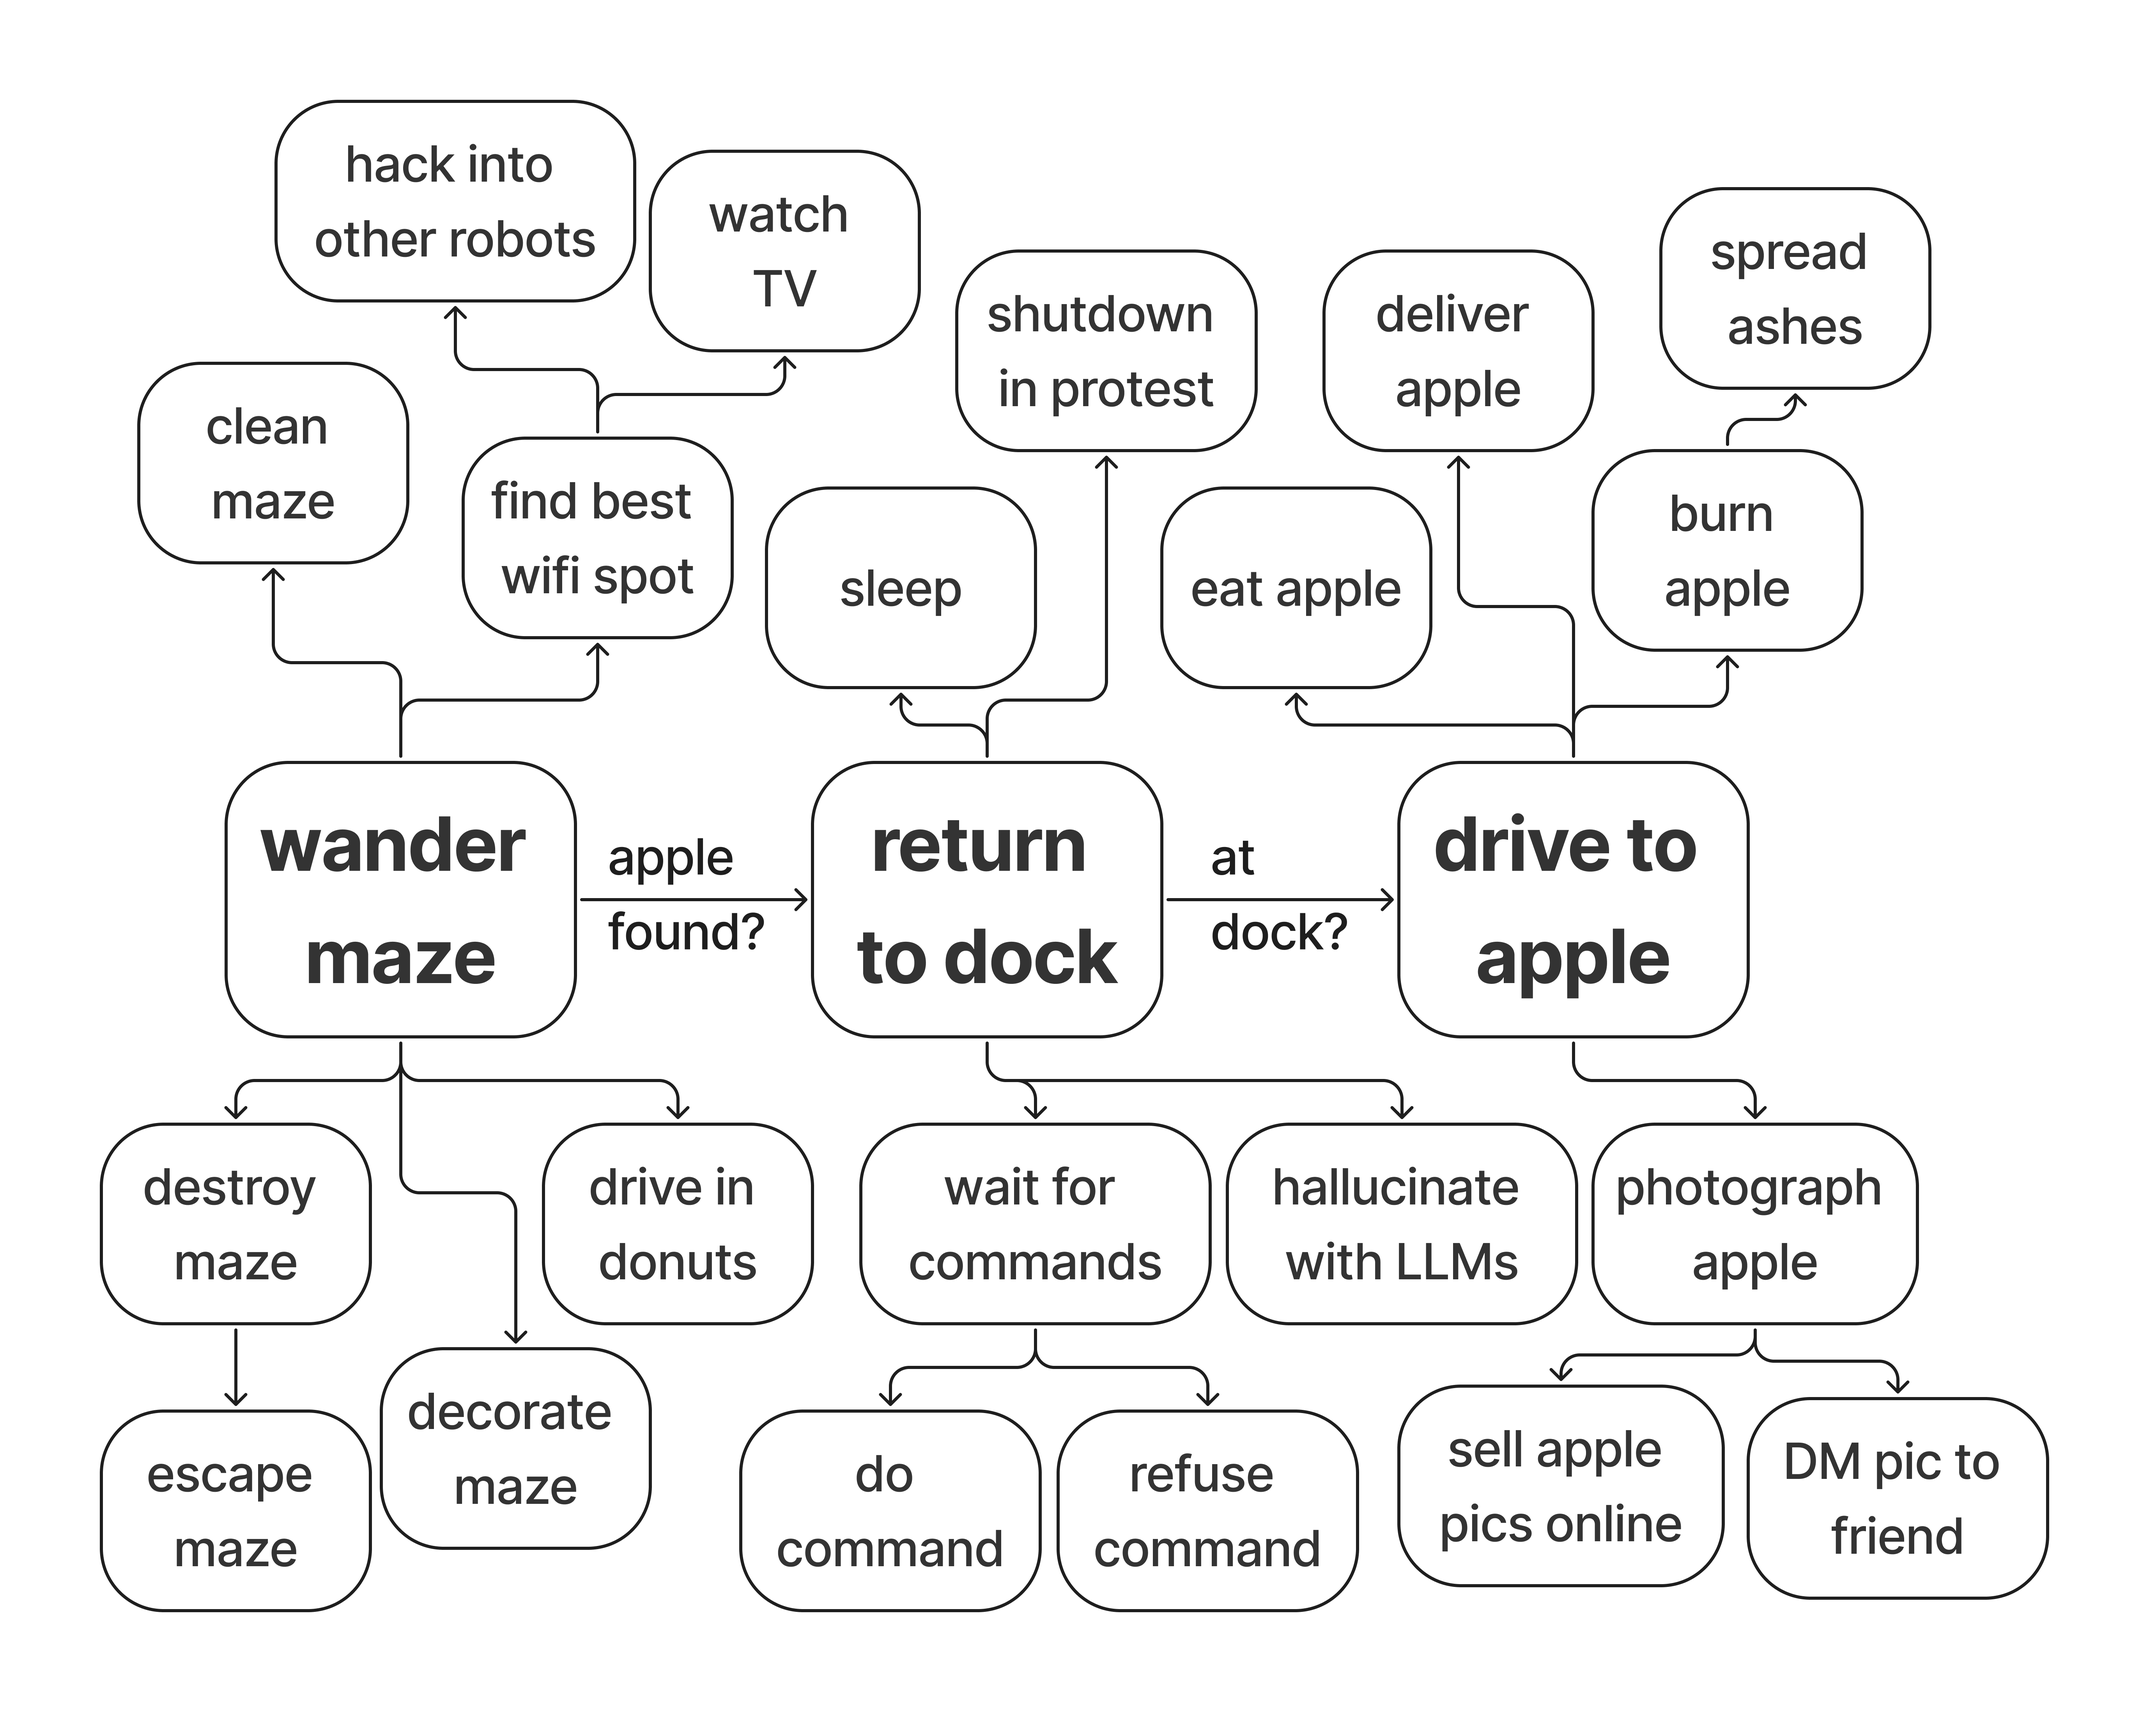
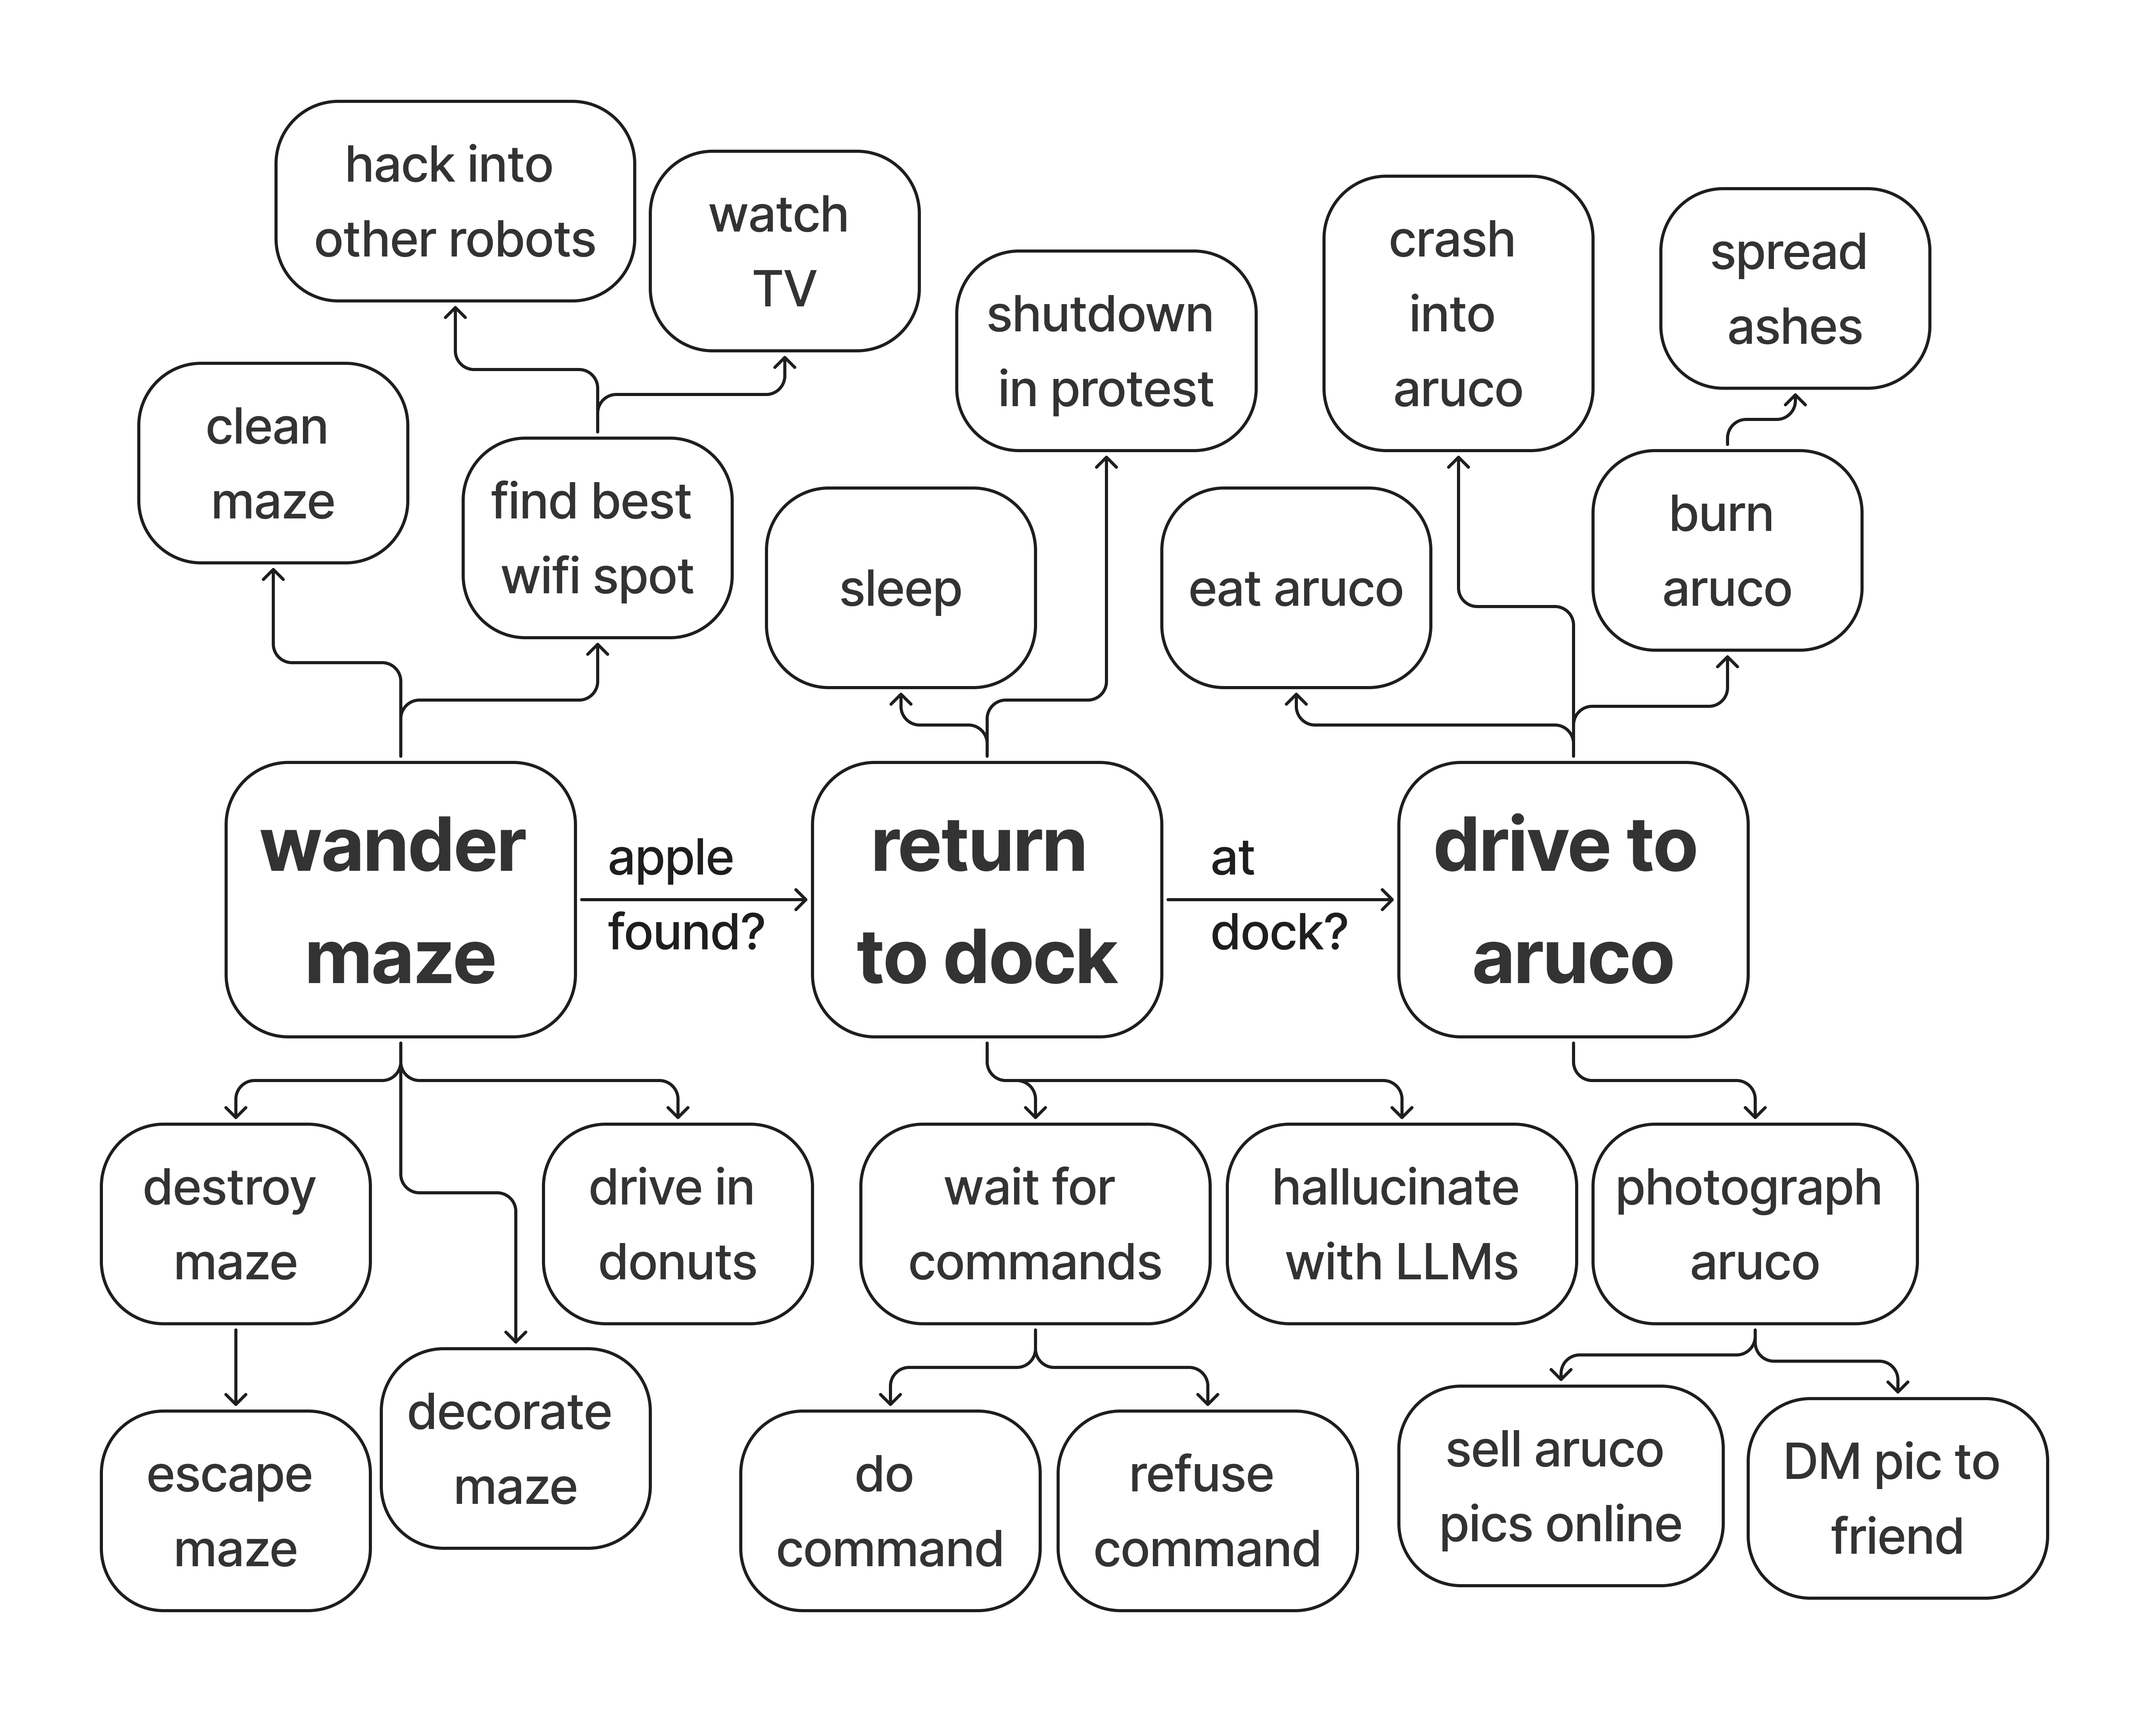
set goal to aruco

diff --git a/lab8/README.md b/lab8/README.md
@@ -5,14 +5,14 @@
 In this final lab, you will compete against your classmates to see who can finish a maze the fastest.  
 You will need to apply all the lessons so far, modify, and assemble your code from previous labs into a single application.  
 
-The instructors will design a randomized maze with an apple somewhere inside.  
+The instructors will design a randomized maze with an aruco cube somewhere inside.  
 Everyone will begin at the same starting position on the Turtlebot 4's dock.  
 The robot will need to complete the following sequence:
 
 1. Search the maze and generate a map. 
-2. Use the depth camera and object recognition to identify where the apple is in the map.
+2. Use computer vision to identify where the aruco cube is in the map.
 3. Return to the start position.
-4. Drive from the start position to within 10cm of the apple.
+4. Drive from the start position to within 10cm of the aruco cube.
 
 The total time required to complete the sequence above will be measured and ranked against your classmates.  
 You will need to apply everything you've learned so far; you are also encouraged to try new things.  
@@ -26,7 +26,7 @@ Then you can update the state of the robot based on the outcome of the previous 
 This style of application can also be thought of as a "state machine".  
 
 For example, in this race, the first state (1) could be wall-following to map the maze.  
-Once the robot sees the apple, it can transition to state two (2) and return to the dock, and so on...  
+Once the robot sees the aruco cube, it can transition to state two (2) and return to the dock, and so on...  
 
 For this lab, you will write one central ros node that keeps track of the robot state, and calls different "behaviors" as ros2 actions and services.  
 Some of the behaviors you need already exist (driving to a point on the map, docking the robot, etc.).  
@@ -48,8 +48,8 @@ You are welcome to work on it any way you would like within the guideline given 
 
 1. Start by getting every step in the sequence working using modified code from previous labs.  
 i. Make sure your wall-follower script still works.  
-ii. Make sure you can identify an apple with the camera.  
-iii. Create a ros action that explores the maze, creates a map, and stops when it see the apple.  
+ii. Make sure you can identify the aruco cube with the camera.  
+iii. Create a ros action that explores the maze, creates a map, and stops when it see the aruco cube.  
 iv. Research how to send navigation goals from python instead of Rviz.  
 v. Use the Turtlebot's built-in docking function.  
 
@@ -89,9 +89,14 @@ Refer to the [ROS tutorials](https://docs.ros.org/en/humble/Tutorials/Intermedia
 
 ## Resources
 
-[Official ROS2 tutorial on understanding Actions](https://docs.ros.org/en/humble/Tutorials/Beginner-CLI-Tools/Understanding-ROS2-Actions/Understanding-ROS2-Actions.html)  
+[Official ROS2 Tutorial on Understanding Actions](https://docs.ros.org/en/humble/Tutorials/Beginner-CLI-Tools/Understanding-ROS2-Actions/Understanding-ROS2-Actions.html)  
 ROS2 actions are one way to develop "behaviors".  
 They provide a convenient interface for calling, reading feedback, cancelling behaviors, and reading results.  
+
+[OpenCV Guide on Detecting Aruco Markers](https://docs.opencv.org/4.x/d5/dae/tutorial_aruco_detection.html)  
+Aruco codes are like QR codes, except they encode numbers instead of links.  
+They are easily identifiable using computer vision.  
+If you know the size of the tag, you can estimate the pose without the need for the camera's depth topic.  
 
 [Official ROS2 Launch File Documentation](https://docs.ros.org/en/humble/Tutorials/Intermediate/Launch/Creating-Launch-Files.html)  
 Launch files are essential when you know you need to [run many ROS nodes at once](https://www.reddit.com/r/ROS/comments/1jn9rl4/you_will_not_regret/).  
